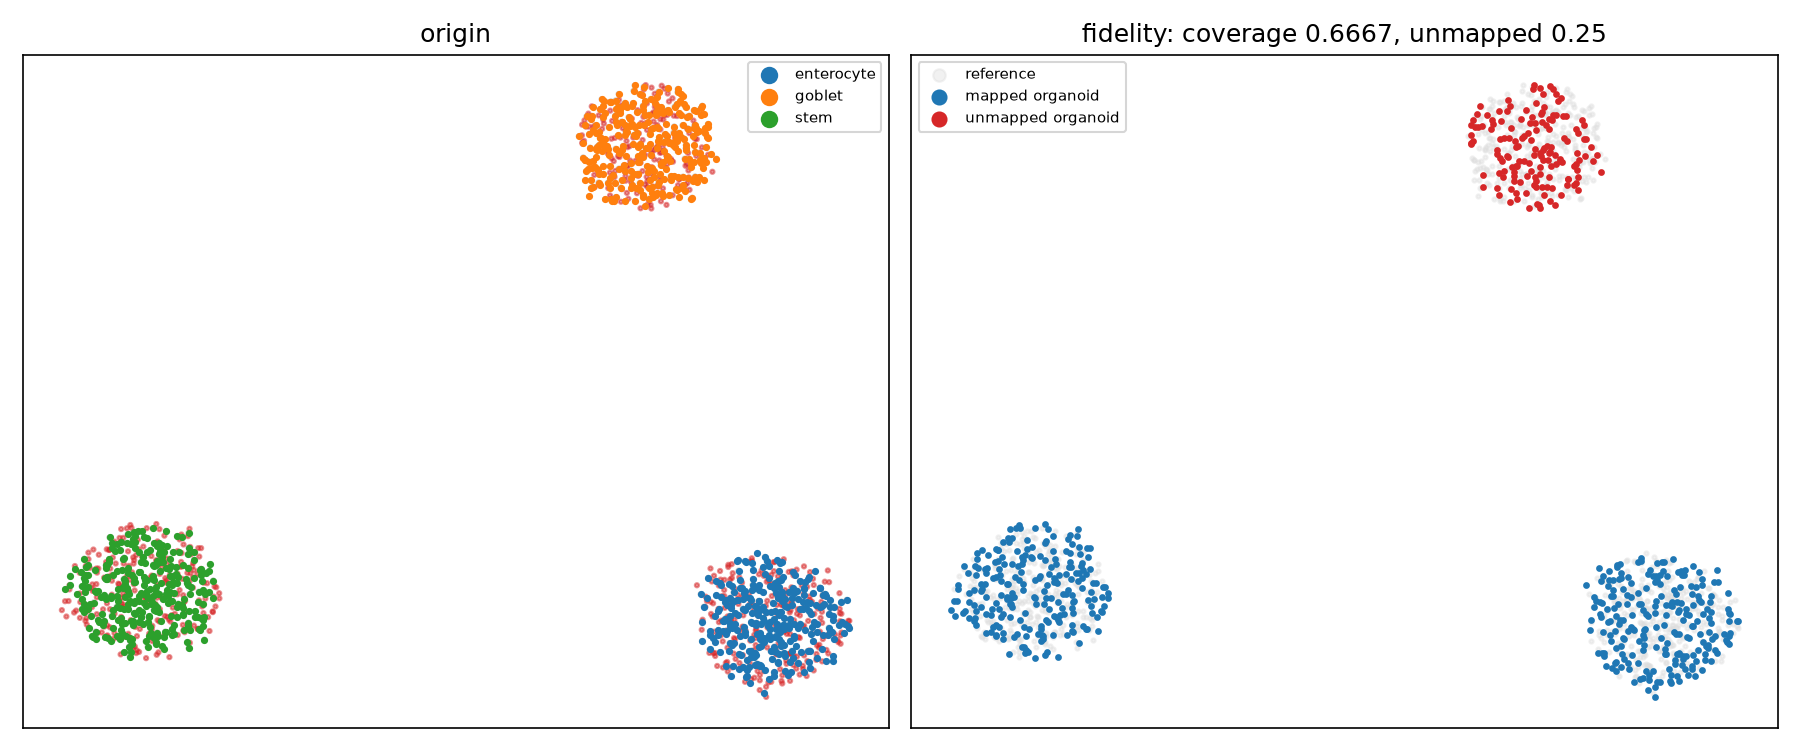
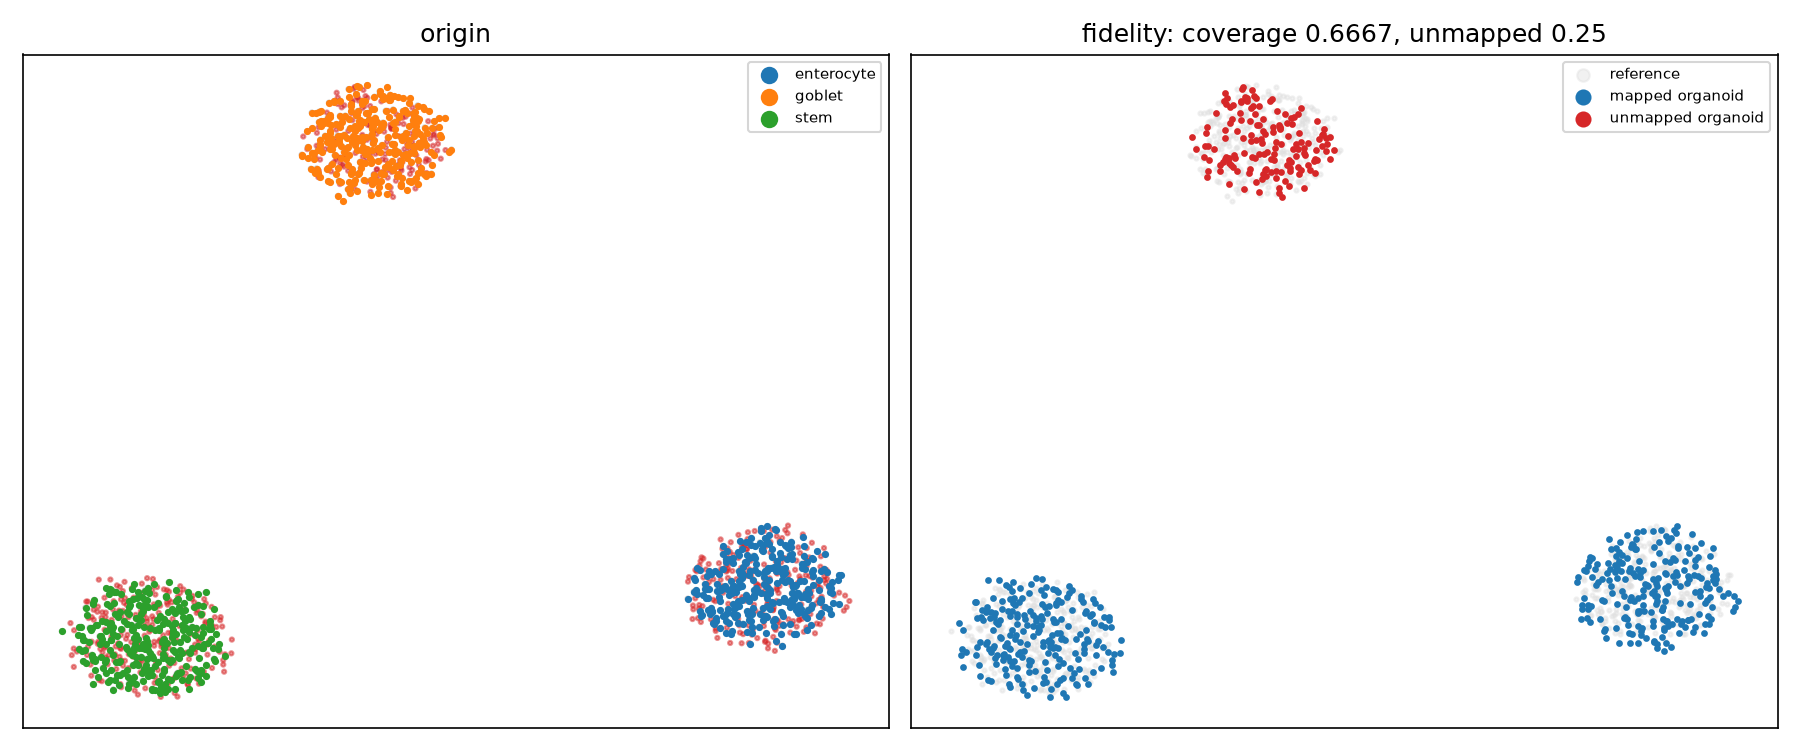
Centralize config loading via organoid_qc.util.load_config
ORGANOID_QC_CONFIG env override replaces inline yaml.safe_load blocks
across all entry points; regenerated umap.png.

Generated with [Devin](https://devin.ai)

diff --git a/src/organoid_qc/qc/score.py b/src/organoid_qc/qc/score.py
@@ -23,7 +23,7 @@ import sys
 import anndata as ad
 import numpy as np
 import pandas as pd
-import yaml
+from organoid_qc.util import load_config
 from scipy import sparse
 
 
@@ -32,6 +32,12 @@ def _mean_profile(adata: ad.AnnData, mask, genes) -> np.ndarray:
     if sparse.issparse(X):
         X = X.toarray()
     idx = adata.var_names.get_indexer(genes)
+    missing = np.asarray(genes)[idx < 0]
+    if len(missing):
+        raise ValueError(
+            f"{len(missing)} genes absent from var_names "
+            f"(e.g. {list(missing[:3])}) — run preprocess to align gene spaces"
+        )
     return np.asarray(X[:, idx]).mean(axis=0)
 
 
@@ -146,8 +152,7 @@ def score(organoid: ad.AnnData, reference: ad.AnnData, cfg: dict) -> dict:
 
 def main() -> None:
     org_path, ref_path, out_path = sys.argv[1:4]
-    with open("config/config.yaml") as f:
-        cfg = yaml.safe_load(f)
+    cfg = load_config()
     result = score(ad.read_h5ad(org_path), ad.read_h5ad(ref_path), cfg)
     with open(out_path, "w") as f:
         json.dump(result, f, indent=2)

diff --git a/src/organoid_qc/data/fetch.py b/src/organoid_qc/data/fetch.py
@@ -19,7 +19,7 @@ import sys
 
 import anndata as ad
 import cellxgene_census
-import yaml
+from organoid_qc.util import load_config
 
 
 def fetch(cfg: dict) -> tuple[ad.AnnData, ad.AnnData]:
@@ -85,8 +85,7 @@ def fetch(cfg: dict) -> tuple[ad.AnnData, ad.AnnData]:
 def main() -> None:
     org_out = sys.argv[1] if len(sys.argv) > 1 else "data/raw/organoid.h5ad"
     ref_out = sys.argv[2] if len(sys.argv) > 2 else "data/raw/reference.h5ad"
-    with open("config/config.yaml") as f:
-        cfg = yaml.safe_load(f)
+    cfg = load_config()
     organoid, reference = fetch(cfg)
     organoid.write_h5ad(org_out)
     reference.write_h5ad(ref_out)

diff --git a/src/organoid_qc/qc/preprocess.py b/src/organoid_qc/qc/preprocess.py
@@ -14,7 +14,7 @@ import sys
 
 import anndata as ad
 import scanpy as sc
-import yaml
+from organoid_qc.util import load_config
 
 
 def _basic_qc(adata: ad.AnnData, cfg: dict) -> ad.AnnData:
@@ -65,8 +65,7 @@ def preprocess(organoid: ad.AnnData, reference: ad.AnnData, cfg: dict):
 
 def main() -> None:
     org_in, ref_in, org_out, ref_out = sys.argv[1:5]
-    with open("config/config.yaml") as f:
-        cfg = yaml.safe_load(f)
+    cfg = load_config()
     organoid = ad.read_h5ad(org_in)
     reference = ad.read_h5ad(ref_in)
     organoid, reference = preprocess(organoid, reference, cfg)

diff --git a/src/organoid_qc/data/load.py b/src/organoid_qc/data/load.py
@@ -13,7 +13,7 @@ from __future__ import annotations
 import sys
 
 import anndata as ad
-import yaml
+from organoid_qc.util import load_config
 
 
 def load(cfg: dict) -> tuple[ad.AnnData, ad.AnnData]:
@@ -46,8 +46,7 @@ def load(cfg: dict) -> tuple[ad.AnnData, ad.AnnData]:
 
 def main() -> None:
     organoid_out, reference_out = sys.argv[1], sys.argv[2]
-    with open("config/config.yaml") as f:
-        cfg = yaml.safe_load(f)
+    cfg = load_config()
     organoid, reference = load(cfg)
     organoid.write_h5ad(organoid_out)
     reference.write_h5ad(reference_out)

diff --git a/src/organoid_qc/util.py b/src/organoid_qc/util.py
@@ -1,0 +1,23 @@
+"""Shared config loading: config/config.yaml is the single source of truth.
+
+ORGANOID_QC_CONFIG env var overrides the path so alternate configs can
+drive the same DAG entry points.
+"""
+
+from __future__ import annotations
+
+import os
+
+import yaml
+
+DEFAULT_CONFIG = "config/config.yaml"
+ENV_VAR = "ORGANOID_QC_CONFIG"
+
+
+def config_path() -> str:
+    return os.environ.get(ENV_VAR, DEFAULT_CONFIG)
+
+
+def load_config(path: str | None = None) -> dict:
+    with open(path or config_path()) as f:
+        return yaml.safe_load(f)

diff --git a/src/organoid_qc/qc/report.py b/src/organoid_qc/qc/report.py
@@ -12,7 +12,7 @@ matplotlib.use("Agg")
 import matplotlib.pyplot as plt
 import numpy as np
 import scanpy as sc
-import yaml
+from organoid_qc.util import load_config
 
 
 def report(
@@ -98,8 +98,7 @@ def report(
 
 def main() -> None:
     org_path, ref_path, fid_path, out_path = sys.argv[1:5]
-    with open("config/config.yaml") as f:
-        cfg = yaml.safe_load(f)
+    cfg = load_config()
     with open(fid_path) as f:
         fidelity = json.load(f)
     report(
